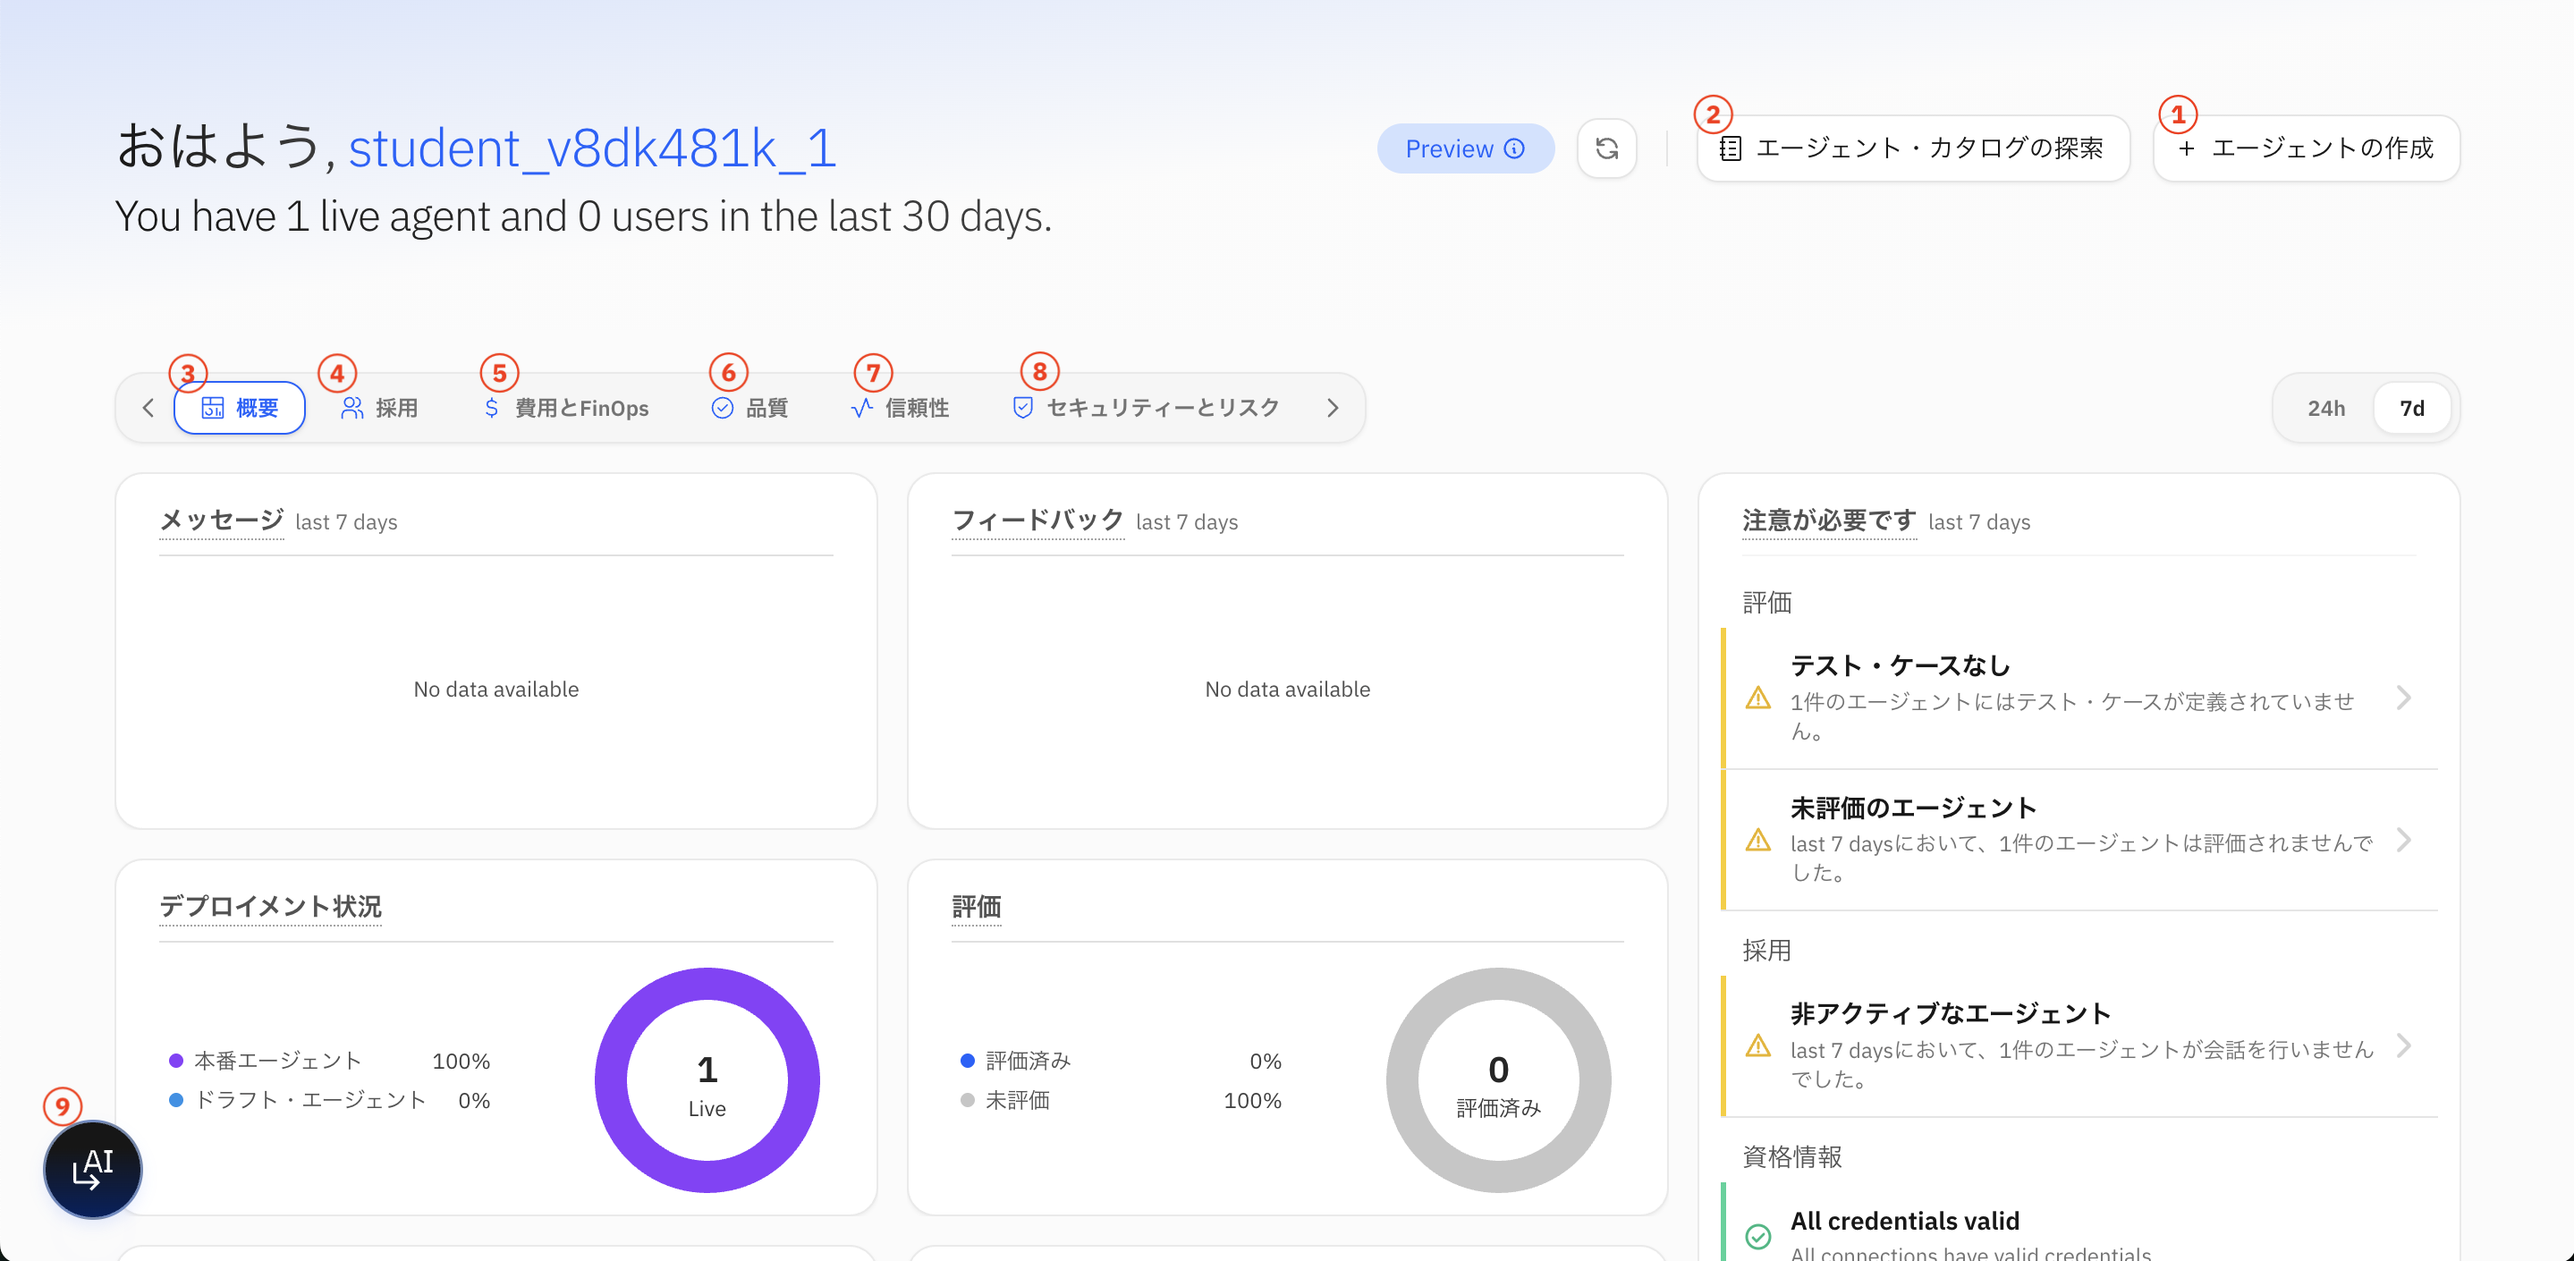
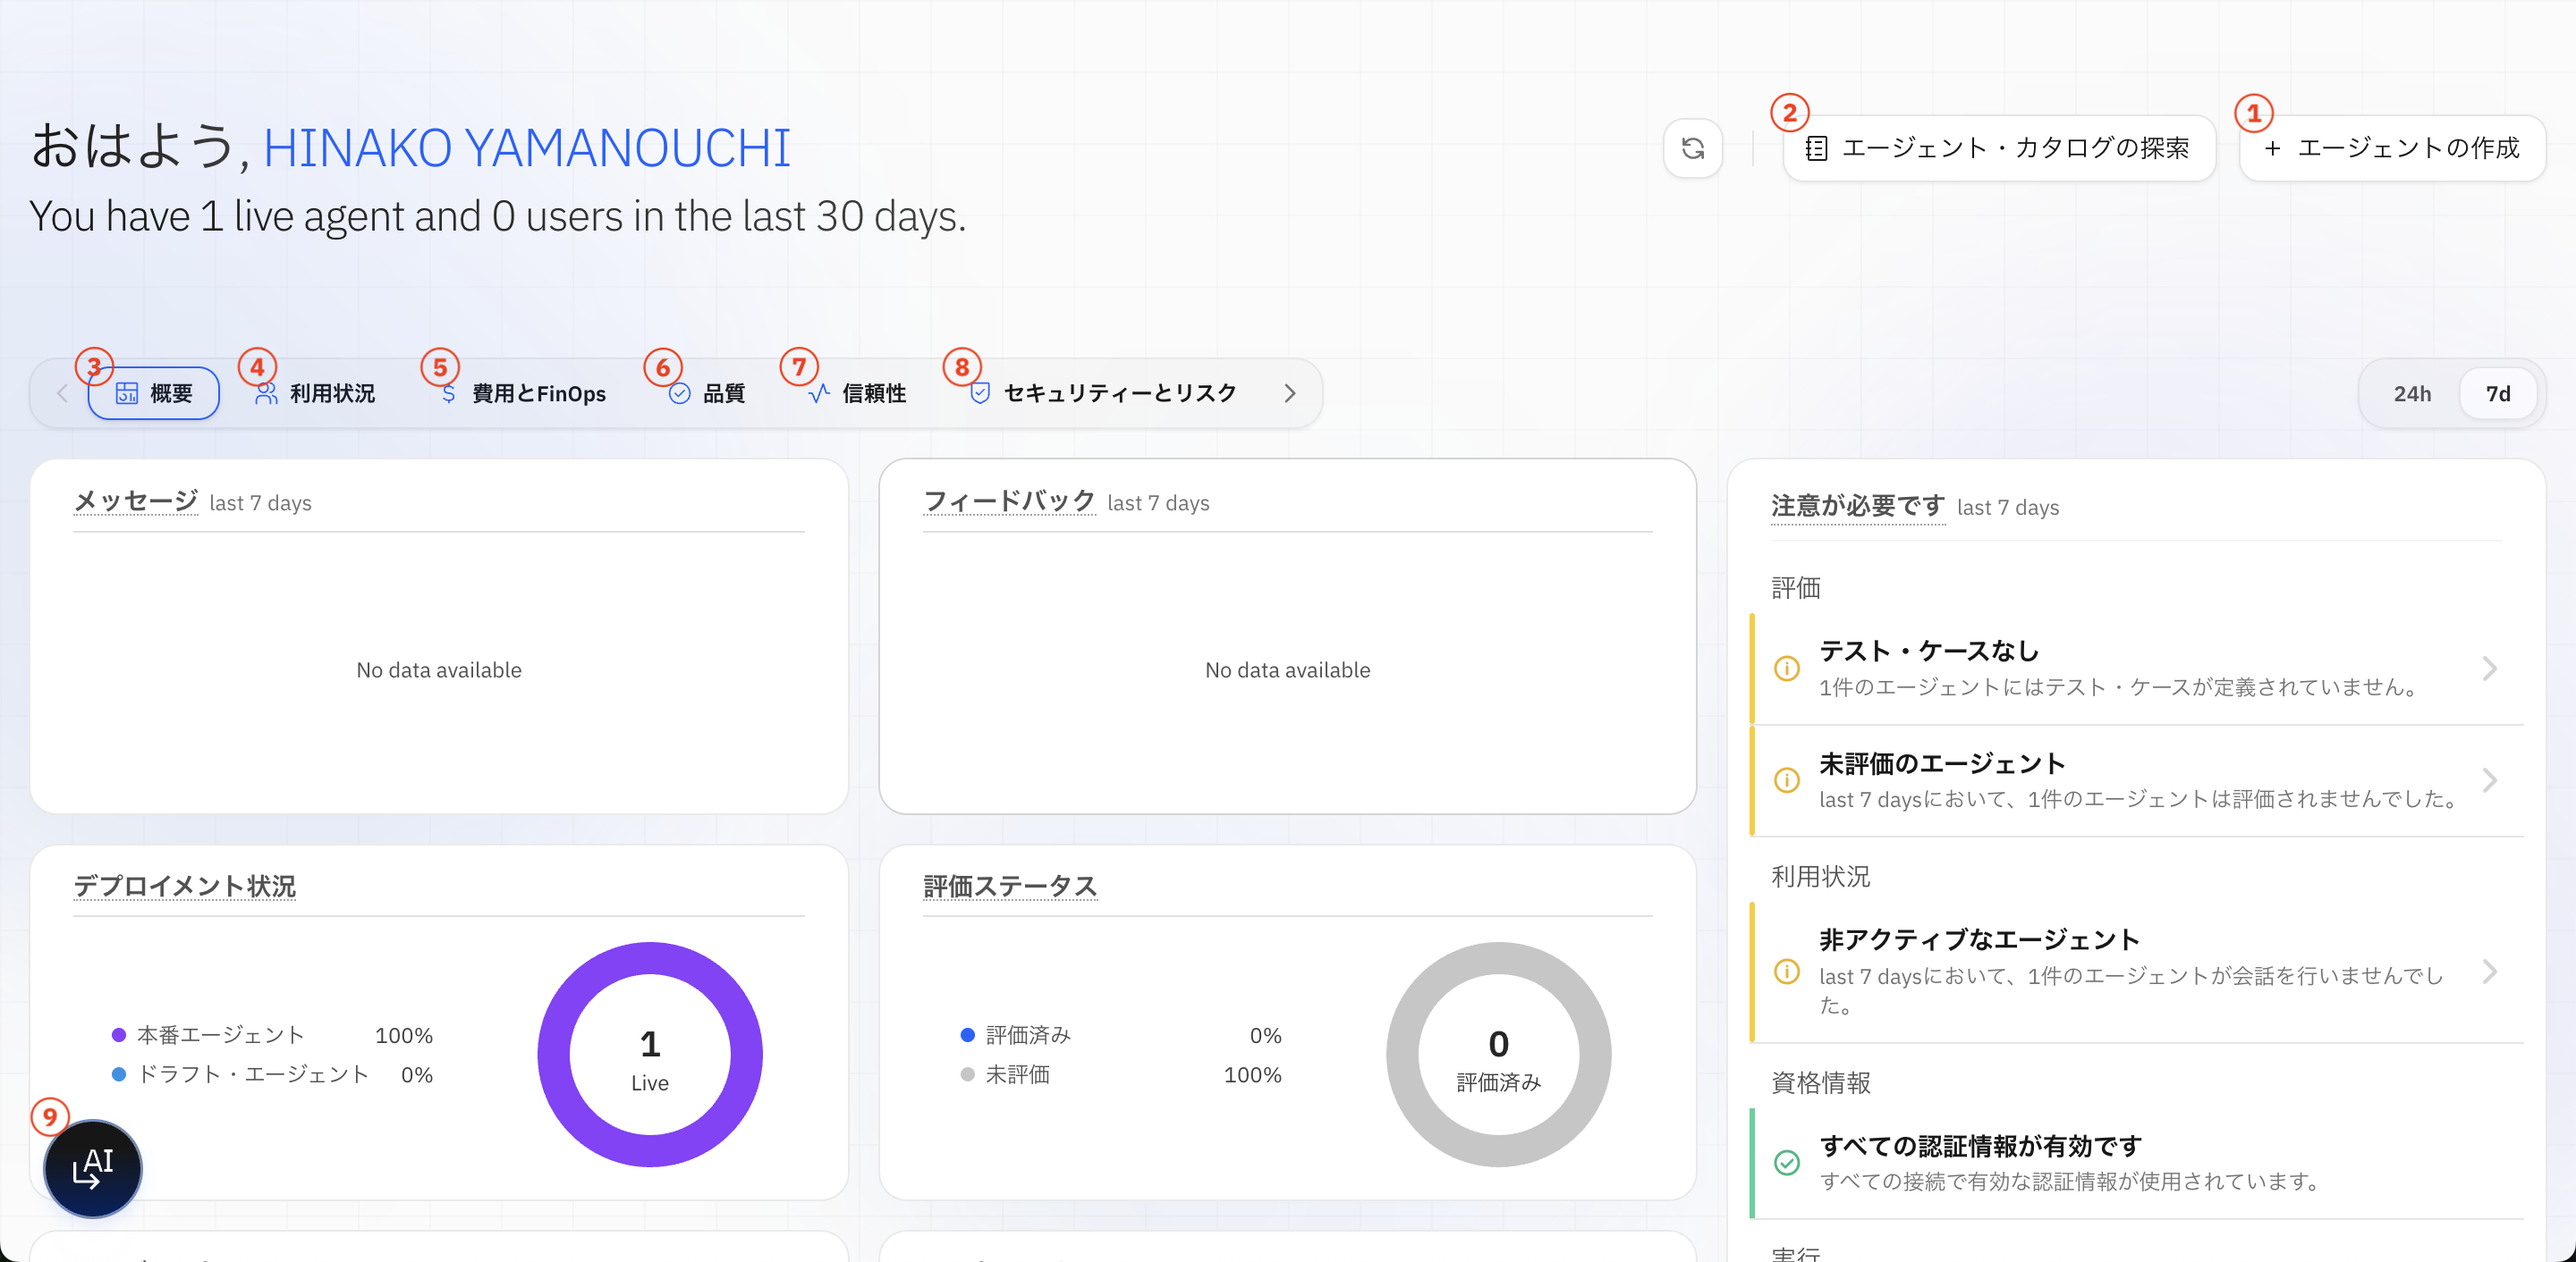
Deployed d32aed3 with MkDocs version: 1.6.1

diff --git a/wxo_agentops/analyze/index.html b/wxo_agentops/analyze/index.html
@@ -1445,9 +1445,9 @@
 <ul>
 <li>エージェントの個別詳細分析画面は、Control Plane ダッシュボードの <strong>エージェント分析</strong> のエリアから <strong>分析の表示</strong> 遷移することもできます。</li>
 <li><strong>概要</strong> のタブでは、直近のタイムライン（右側のプルダウンより指定可能）における選択したエージェントの利用状況が以下の項目で整理されています<ul>
-<li>会話の総数、トークン数、ユーザー数、平均会話時間、平均待ち時間</li>
-<li>利用動向</li>
-<li>エージェントの応答に対するフィードバック</li>
+<li>会話の総数、トークン数、ユーザー数、平均会話時間、平均待ち時間 <br></li>
+<li>利用動向 <br></li>
+<li>エージェントの応答に対するフィードバック <br></li>
 <li>モデルの評価（有害 / 偏った / 不適切な表現、ハルシネーションなどを生成していないかどうかの判断）</li>
 </ul>
 </li>
@@ -1496,7 +1496,7 @@
 <a class="glightbox" href="../images/%E5%88%86%E6%9E%90_CreateTestCase-04.png" data-type="image" data-width="auto" data-height="auto" data-desc-position="bottom"><img alt="alt text" src="../images/%E5%88%86%E6%9E%90_CreateTestCase-04.png" /></a>  </p>
 <p>4. Agent Builder に戻ります。<br />
 &emsp;もう一度、プレビューチャットに先ほどと同じ質問を行います。<br />
-&emsp;問題なくツールが呼び出され、応答が返ってきたことを確認できたら、チャットの入力欄上に表示される <strong>テストとして保存</strong> をクリックします。
+&emsp;問題なくツールが呼び出され、応答が返ってきたことを確認できたら、チャットの入力欄上に表示される <strong>テストとして保存</strong> をクリックします。 <br>
      <a class="glightbox" href="../images/%E5%88%86%E6%9E%90_CreateTestCase-05.png" data-type="image" data-width="auto" data-height="auto" data-desc-position="bottom"><img alt="alt text" src="../images/%E5%88%86%E6%9E%90_CreateTestCase-05.png" /></a> </p>
 <p>5. テストケースとして登録するための設定ウィンドウが表示されます。<br />
 <a class="glightbox" href="../images/%E5%88%86%E6%9E%90_CreateTestCase-06.png" data-type="image" data-width="auto" data-height="auto" data-desc-position="bottom"><img alt="alt text" src="../images/%E5%88%86%E6%9E%90_CreateTestCase-06.png" /></a><br />
@@ -1507,8 +1507,8 @@
 geocode_place_name ツールを使って当該地点の緯度と経度を取得し、その緯度と経度を使って search_map_features_near_place を呼び出すことで、カフェ情報を検索する。
 </code></pre></div>
    <a class="glightbox" href="../images/%E5%88%86%E6%9E%90_CreateTestCase-07.png" data-type="image" data-width="auto" data-height="auto" data-desc-position="bottom"><img alt="alt text" src="../images/%E5%88%86%E6%9E%90_CreateTestCase-07.png" /></a> 
-6. 保存できたら、 <strong>Evaluations</strong> タブをクリックし、評価管理画面に戻ります。<br />
-&emsp;左側に追加したテストケースが表示されています。<strong>Start new evaluation</strong> ボタンを押下して、テストを実行します。<br />
+6. 保存できたら、 <strong>Evaluate</strong> タブをクリックし、評価管理画面に移動します。<br />
+&emsp;テストタブの左側には追加したテストケースが表示されています。評価タブを開き、<strong>新しい評価を開始する</strong> ボタンを押下して、作成したテストを選択し、テストを実行します。<br />
 &emsp;テストの実行には数分かかります。<br />
 <a class="glightbox" href="../images/%E5%88%86%E6%9E%90_CreateTestCase-08.png" data-type="image" data-width="auto" data-height="auto" data-desc-position="bottom"><img alt="alt text" src="../images/%E5%88%86%E6%9E%90_CreateTestCase-08.png" /></a>  </p>
 <p>7. テストが完了すると、先ほど設定した期待値通りに動いたかどうか等が確認できます。<br />

diff --git a/wxo_agentops/control/index.html b/wxo_agentops/control/index.html
@@ -1463,10 +1463,10 @@
 <p>3. 作成可能なコントロールの一覧が表示されます。<br />
 <a class="glightbox" href="../images/%E7%B5%B1%E5%88%B6_CreateControl-08.png" data-type="image" data-width="auto" data-height="auto" data-desc-position="bottom"><img alt="alt text" src="../images/%E7%B5%B1%E5%88%B6_CreateControl-08.png" /></a>  </p>
 <p><u>エージェントに対するコントロール</u><br />
-   ○ Content Guardrails：暴力的な言葉、ヘイトスピーチ、有害コンテンツ、偏見などの社会的に不適切なコンテンツを検出しブロック<br />
-   ○ Output Length Guard：最小文字数 / 最大文字数 / トークン長を強制 
-   ○ Regex Pattern：ユーザー定義の正規表現に一致するテキストを検出し、ブロックや置換 
-   ○ Secrets Detector：認証情報（API key やパスワードなど）を検出し、必要に応じて編集またはブロック<br />
+   ○ Content Guardrails：暴力的な言葉、ヘイトスピーチ、有害コンテンツ、偏見などの社会的に不適切なコンテンツを検出しブロック  <br>
+   ○ Output Length Guard：最小文字数 / 最大文字数 / トークン長を強制 <br>
+   ○ Regex Pattern：ユーザー定義の正規表現に一致するテキストを検出し、ブロックや置換 <br>
+   ○ Secrets Detector：認証情報（API key やパスワードなど）を検出し、必要に応じて編集またはブロック  <br>
    ○ PII Filter：メールアドレスなどの個人情報を検出しマスキング  </p>
 <p><u>ツールに対するコントロール</u><br />
    ○ Content Guardrails：（同上）<br />
@@ -1564,10 +1564,16 @@ watsonx Orchestrate は、外部のエージェントに対しても連携実行
 <div class="admonition note">
 <p class="admonition-title">Note</p>
 <ul>
-<li>A2A で接続したエージェントがうまく呼び出されない場合は、<strong>動作</strong> の欄に条件と動作について指示を記載します。</li>
+<li>A2A で接続したエージェントがうまく呼び出されない場合は、<strong>指示</strong> の欄に条件と動作について指示を記載します。</li>
 <li>A2A で接続したエージェントに対しても、設定したコントロールが適用されます。</li>
 </ul>
 </div>
+<p>10. 左上のハンバーガーメニュー &gt; 管理 &gt; コントロールから、再度<strong>コントロール</strong>の画面に戻ります。 <br>
+先程作成したコントロールのOptionsから編集を選択します。 <br>
+適用タイプを<strong>outpit</strong>にもチェックを入れてください。適用エージェントは、次の画面で追加・削除が可能です。
+ <a class="glightbox" href="../images/%E7%B5%B1%E5%88%B6_A2A-14.png" data-type="image" data-width="auto" data-height="auto" data-desc-position="bottom"><img alt="alt text" src="../images/%E7%B5%B1%E5%88%B6_A2A-14.png" /></a>  </p>
+<p>11. 再度、左上のハンバーガーメニューから <strong>ビルド</strong> をクリックし、自身のエージェントを選択して Agent Builder を開き、Difyが呼ばれるエージェントを動かし、トレースを確認してください。
+&emsp;子エージェントのみを対象としたときと、親エージェントのみを対象とした際の違いについてご確認ください。</p>
 <h3 id="langgraph">LangGraph エージェントをインポート</h3>
 <p>TBA</p>
 

diff --git a/wxo_agentops/intro/index.html b/wxo_agentops/intro/index.html
@@ -1449,11 +1449,11 @@
 <p>① エージェント作成メニュー：新しいエージェントを作成するウィンドウが開きます。 <br>
 ② カタログ：事前構築済みのエージェント（テンプレート）やツール（コネクター）等の一覧メニューに遷移します。 <br>
 ③ 概要：メッセージやフィードバック、エージェントの使用状況・運用動向、アラートを確認できます。 <br>
-④ 採用：エージェントの導入状況、リーチ、およびエンゲージメントを追跡する。 <br>
+④ 利用状況：エージェントの導入状況、リーチ、およびエンゲージメントを追跡する。 <br>
 ⑤ 費用とFinOps： LLMのトークン消費量とコストに関する指標を監視する。 <br>
 ⑥ 品質：レスポンスの品質とツールの稼働状況を評価する。 <br>
 ⑦ 信頼性：実行時の障害やレイテンシの傾向を特定する。 <br>
-⑧ セキュリティとリスク：ガバナンスの適用範囲と制御の紐付けを確認する。<br>
+⑧ セキュリティーとリスク：ガバナンスの適用範囲と制御の紐付けを確認する。<br>
 ⑨ Control Plane エージェント：このテナントで管理しているエージェントやアセットについて分析や洞察を質問することができる管理者用のエージェントです。<br>
 <a class="glightbox" href="../images/%E4%BA%8B%E5%89%8D%E6%BA%96%E5%82%99_Dashboard-Agent-02.png" data-type="image" data-width="auto" data-height="auto" data-desc-position="bottom"><img alt="alt text" src="../images/%E4%BA%8B%E5%89%8D%E6%BA%96%E5%82%99_Dashboard-Agent-02.png" /></a>  </p>
 <h2 id="_4">サンプルエージェントの作成</h2>
